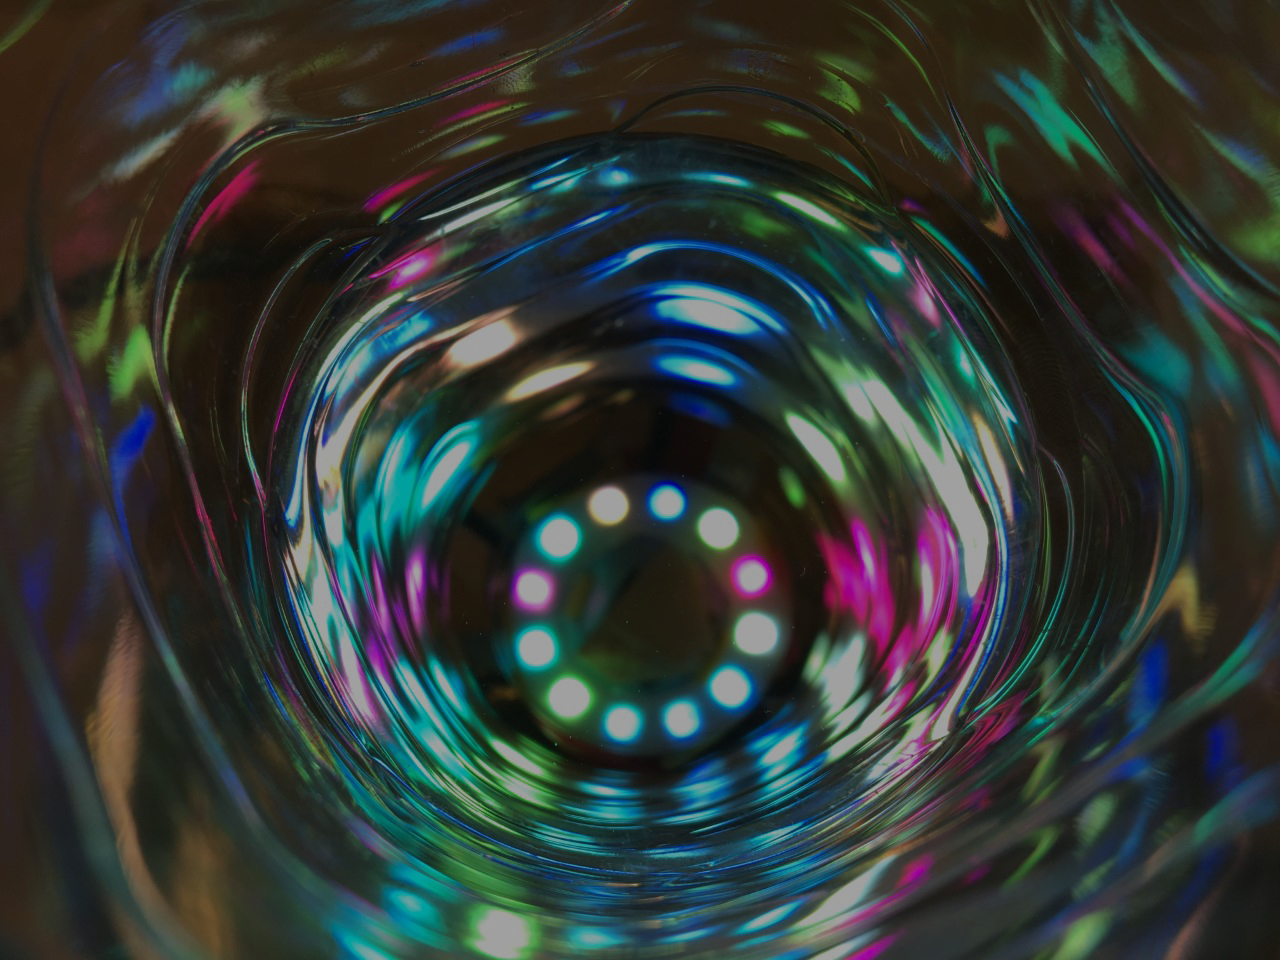
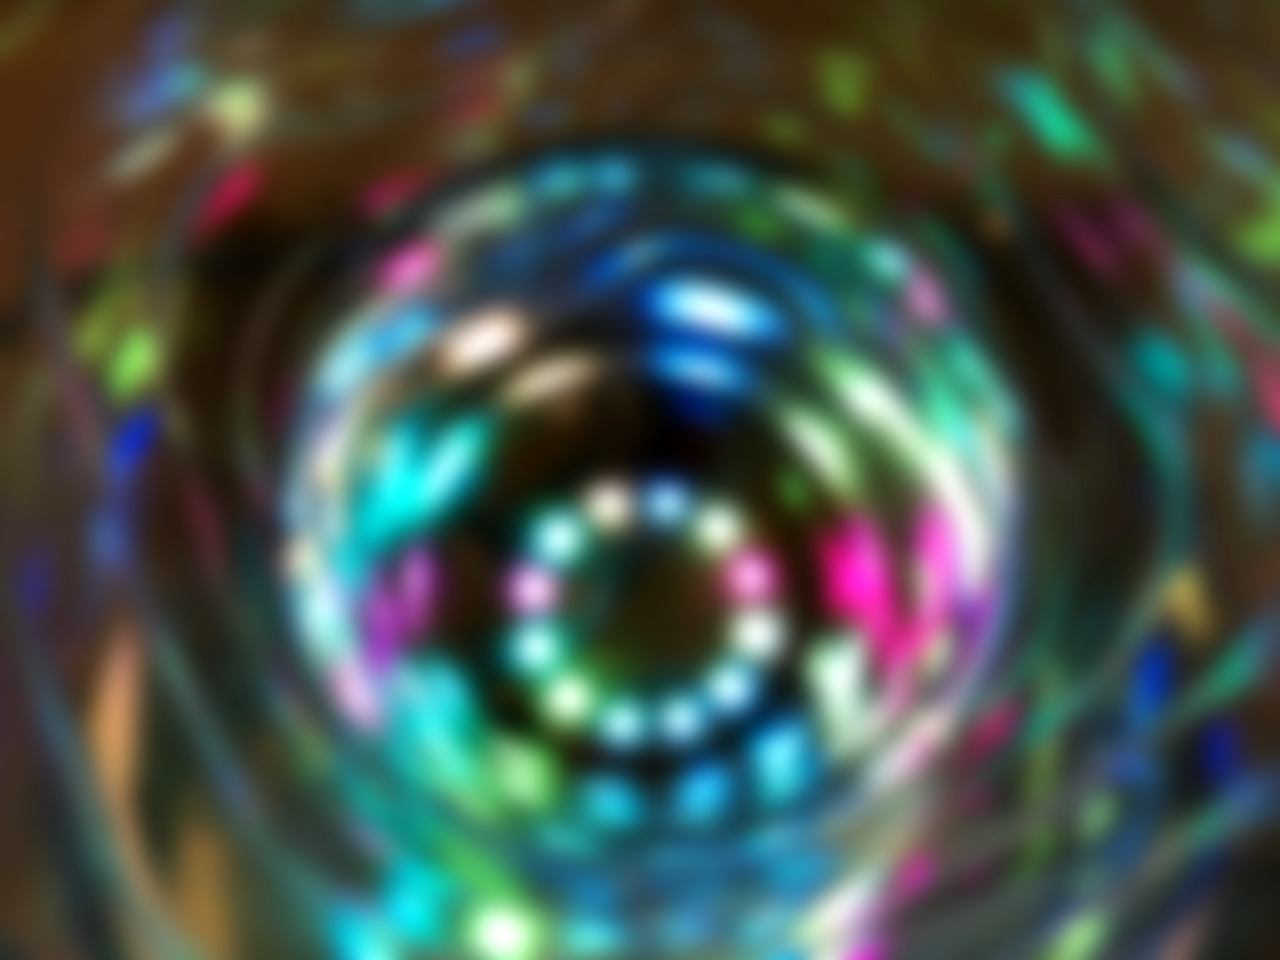
home background een blur gegeven en de quote spacing van 0.1em

diff --git a/style.css b/style.css
@@ -28,7 +28,7 @@
 
 #home
 {
-    background: url("img/achtergrond.png") no-repeat;
+    background: url("img/achtergrond1.png") no-repeat;
     background-size: 100%;
 }
 
@@ -75,6 +75,7 @@
     font-family: Century Gothic, sans-serif;
     font-size: 28px;
     text-align: center;
+    letter-spacing: 0.1em;
 }
 
 #info-img img

diff --git a/css/extra.css b/css/extra.css
@@ -102,6 +102,7 @@ code {
 .nav-item a.nav-link.active {
   color: white;
   font-weight: 800;
-  border: solid #283593 1px; }
+  border: solid #283593 1px;
+  background-color: rgba(17, 0, 97, 0.64); }
 
 /*# sourceMappingURL=extra.css.map */

diff --git a/css/extra.scss b/css/extra.scss
@@ -127,6 +127,7 @@ code {
     color: white;
     font-weight: 800;
     border: solid #283593 1px;
+    background-color: rgba(17, 0, 97, 0.64);
   }
 }
 

diff --git a/index.php b/index.php
@@ -75,7 +75,7 @@ switch($message)
                             <div id="about-us-text">
                                 <h2>Over ons</h2>
                                 <p>
-                                    Wij zijn een <b style="color: blue;">Jansenio</b>, <b style="color: greenyellow;">Irene</b>, <b style="color: lightblue;">Lotte</b> en <b style="color: orange;">Rick</b>. Wij studeren aan de Hogeschool Rotterdam op de opleiding <b>Creative & Interactive Media & Game Technologiess</b>.
+                                    Wij zijn <b style="color: blue;">Jansenio</b>, <b style="color: greenyellow;">Irene</b>, <b style="color: lightblue;">Lotte</b> en <b style="color: orange;">Rick</b>. Wij studeren aan de Hogeschool Rotterdam op de opleiding <b>Creative & Interactive Media & Game Technologiess</b>.
                                     Hier hebben wij de opdracht gekregen om een <b>smart-opject</b> te maken.
                                 </p>
                             </div>
